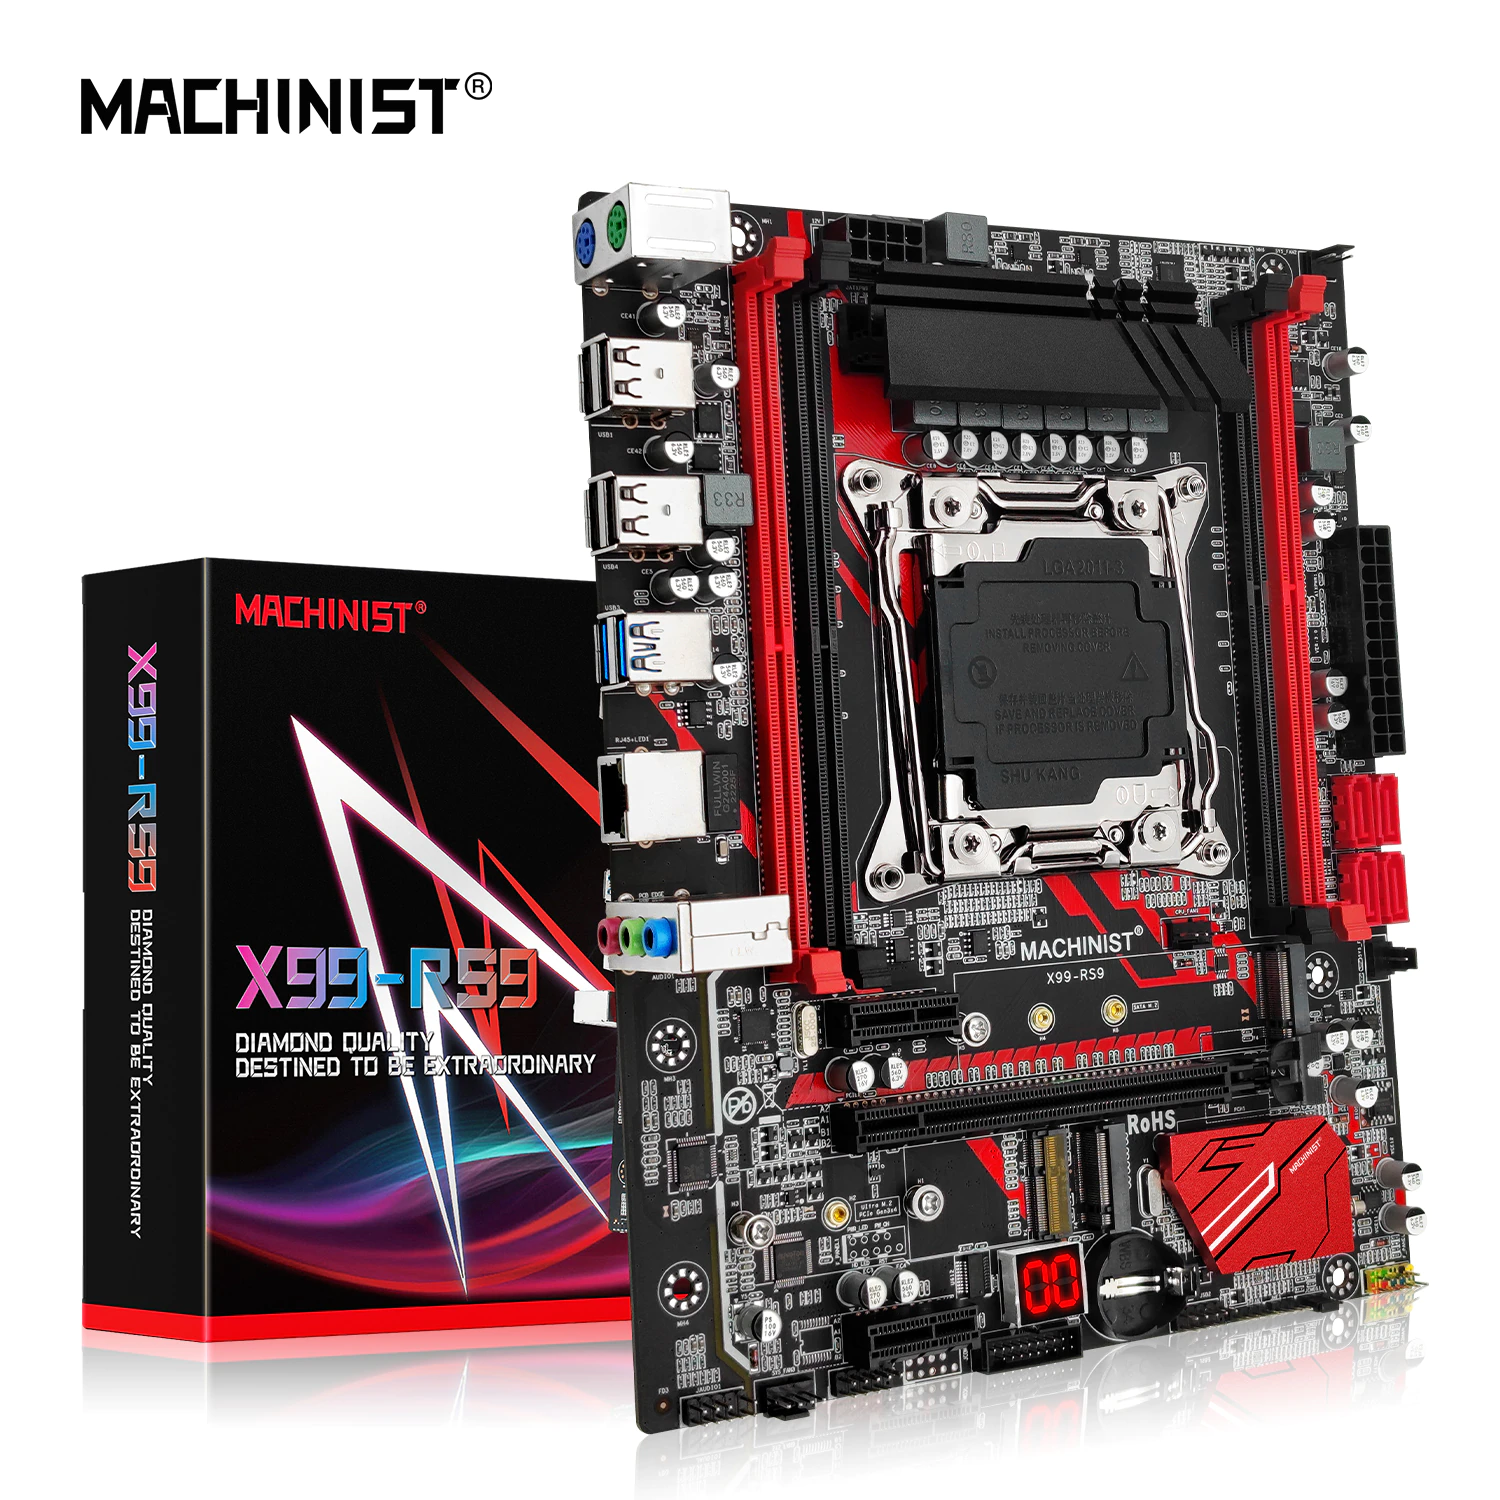
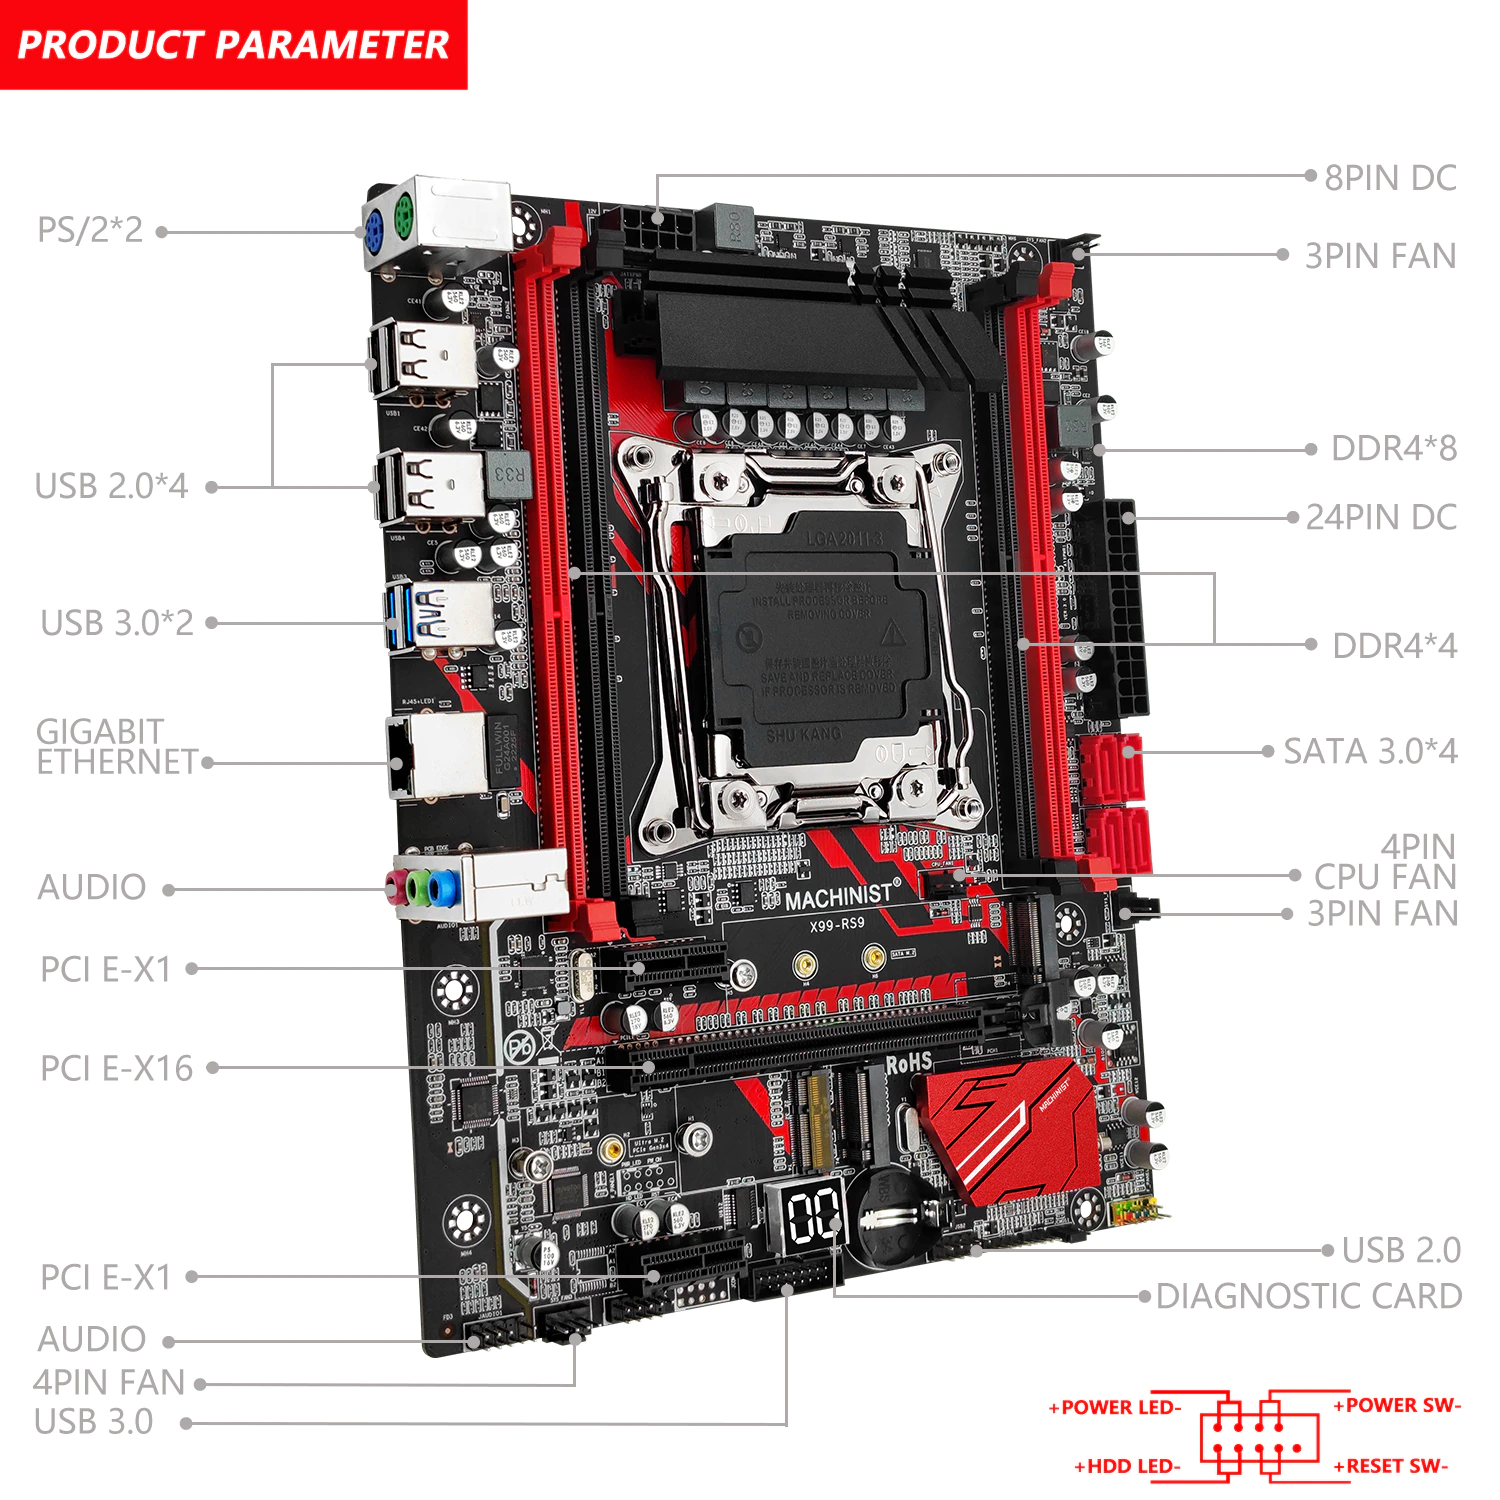
docs(components): add content to table; change images

diff --git a/docs/components/motherboard.md b/docs/components/motherboard.md
@@ -17,10 +17,16 @@ date: 2020-12-29 23:23:44
 
 <small>
 
-| motherboard | Atermiter X99 D4 [4](https://aliexpress.ru/item/1005002988276402.html 'atermiter Store') | HUANANZHI X99 QD4 [5](https://aliexpress.ru/item/1005004533446321.html 'iworld Store') | MACHINIST X99 RS9 red [2](https://aliexpress.ru/item/4000750170401.html 'MACHINIST Store') | Machinist X99 MR9A [6](https://aliexpress.ru/item/1005003197164283.html 'MACHINIST official Store') | Machinist X99 MR9Av2 [6](https://aliexpress.ru/item/1005004005435696.html 'MACHINIST official Store') |
+| Motherboard | Atermiter X99 D4 [4](https://aliexpress.ru/item/1005002988276402.html 'atermiter Store') | HUANANZHI X99 QD4 [5](https://aliexpress.ru/item/1005004533446321.html 'iworld Store') | MACHINIST X99 RS9 red [2](https://aliexpress.ru/item/4000750170401.html 'MACHINIST Store') | Machinist X99 MR9A [6](https://aliexpress.ru/item/1005003197164283.html 'MACHINIST official Store') | Machinist X99 MR9Av2 [6](https://aliexpress.ru/item/1005004005435696.html 'MACHINIST official Store') |
 | --- | :-: | :-: | :-: | :-: | :-: |
-| photo | [![Atermiter-X99-D4-3-0-NVME-M-2-SSD](img/Atermiter-X99-D4-3-0-NVME-M-2-SSD.webp)](img/Atermiter-X99-D4-3-0-NVME-M-2-SSD.webp) | [![HUANANZHI-X99-QD4-Intel-XEON-E5-X99-LGA2011-3](img/HUANANZHI-X99-QD4-Intel-XEON-E5-X99-LGA2011-3.webp)](img/HUANANZHI-X99-QD4-Intel-XEON-E5-X99-LGA2011-3.webp) | [![MACHINIST-X99-LGA-2011-3-Xeon-E5-2640-2666-v3](img/MACHINIST-X99-LGA-2011-3-Xeon-E5-2640-2666-v3.webp)](img/MACHINIST-X99-LGA-2011-3-Xeon-E5-2640-2666-v3.webp) | [![Machinist-X99-LGA-2011-3-Xeon-E5-V3-V4](img/Machinist-X99-LGA-2011-3-Xeon-E5-V3-V4.webp)](img/Machinist-X99-LGA-2011-3-Xeon-E5-V3-V4.webp) | [![Machinist-X99-LGA-2011-3-Xeon-E5-V3-V4](img/Machinist-X99-LGA-2011-3-Xeon-E5-V3-V4-2.webp)](img/Machinist-X99-LGA-2011-3-Xeon-E5-V3-V4-2.webp) |
-| memory canal | 2-channel | 4-channel |  |  |  |
+| Photo | [![Atermiter-X99-D4-3-0-NVME-M-2-SSD](img/Atermiter-X99-D4-3-0-NVME-M-2-SSD.webp)](img/Atermiter-X99-D4-3-0-NVME-M-2-SSD.webp) | [![HUANANZHI-X99-QD4-Intel-XEON-E5-X99-LGA2011-3](img/HUANANZHI-X99-QD4-Intel-XEON-E5-X99-LGA2011-3.webp)](img/HUANANZHI-X99-QD4-Intel-XEON-E5-X99-LGA2011-3.webp) | [![MACHINIST-X99-LGA-2011-3-Xeon-E5-2640-2666-v3](img/MACHINIST-X99-LGA-2011-3-Xeon-E5-2640-2666-v3.webp)](img/MACHINIST-X99-LGA-2011-3-Xeon-E5-2640-2666-v3.webp) | [![Machinist-X99-LGA-2011-3-Xeon-E5-V3-V4](img/Machinist-X99-LGA-2011-3-Xeon-E5-V3-V4.webp)](img/Machinist-X99-LGA-2011-3-Xeon-E5-V3-V4.webp) | [![Machinist-X99-LGA-2011-3-Xeon-E5-V3-V4](img/Machinist-X99-LGA-2011-3-Xeon-E5-V3-V4-2.webp)](img/Machinist-X99-LGA-2011-3-Xeon-E5-V3-V4-2.webp) |
+| Memory channel | 2-channel | 4-channel | 4-channel | 4-channel | 4-channel |
+| Memory | DDR4, max:64Gb | max:128Gb | DDR4, DDR4 ECC, max:64Gb | DDR4, max:128Gb | DDR4, max:128Gb |
+| Disk | 1xM.2 | 2xM.2 | 2xM.2 | 2xM.2 | 2xM.2 |
+| Form factor | microATX | microATX 245x190mm | microATX 235x185mm | ATX 283x216mm | ATX 283x216mm |
+| CPU | Xeon E5 v3, v4 |  | Intel Core i7, Xeon e5 v3,v4 | LGA2011-3 (tdp<=105w) |  |
+| Videocard, slots |  |  | PCI-E X16, PCI-E X1 |  |  |
+| LAN, max | 100Mbit/s |
 
 </small>
 
